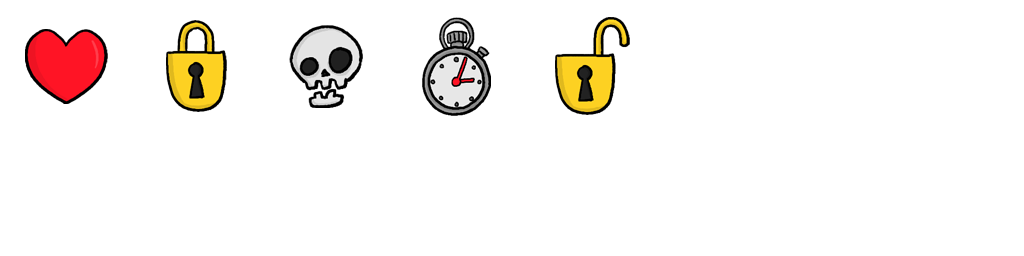
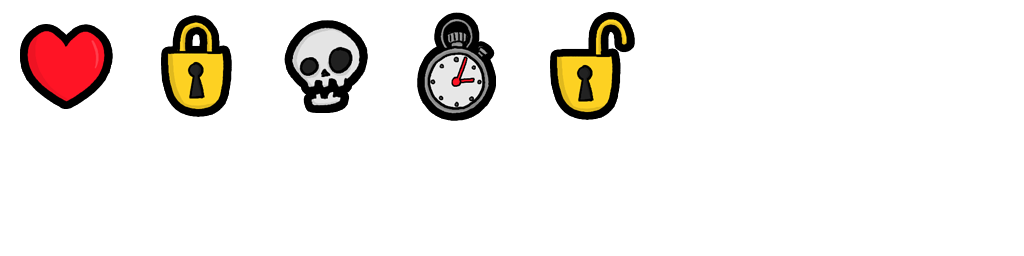
Modified UI assets and placement. Modified item assets and hitboxes.

diff --git a/core/src/com/totlc/levels/ALevel.java b/core/src/com/totlc/levels/ALevel.java
@@ -2,6 +2,7 @@ package com.totlc.levels;
 
 import com.badlogic.gdx.Input;
 import com.badlogic.gdx.assets.AssetManager;
+import com.badlogic.gdx.graphics.Texture;
 import com.badlogic.gdx.graphics.g2d.TextureAtlas;
 import com.badlogic.gdx.graphics.g2d.TextureRegion;
 import com.badlogic.gdx.math.Intersector;
@@ -82,6 +83,7 @@ public abstract class ALevel extends Stage {
                 setInfoString("DEFEAT ENEMIES");
                 break;
         }
+        objIcon.getTexture().setFilter(Texture.TextureFilter.Linear, Texture.TextureFilter.Linear);
         setMusicPlayer(new MusicPlayer());
     }
 
@@ -89,11 +91,11 @@ public abstract class ALevel extends Stage {
 
     public void endInit() {
         initWalls();
-        initUI();
 
         player.moveAbs(playerStartPosition.x, playerStartPosition.y);
         addActor(player);
         getPlayer().setZIndex(20);
+        initUI();
     }
 
     @Override
@@ -213,16 +215,16 @@ public abstract class ALevel extends Stage {
         int yOffset = 32;
         // Add health bar, inventory bar, and level information bar.
         LifeGauge hpBar = new LifeGauge(getAssetManager(), player, 0, TradersOfTheLastCarp.CONFIG_HEIGHT);
-        hpBar.setZIndex(10);
+
         Inventory inventory = new Inventory(getAssetManager(), player, 0, TradersOfTheLastCarp.CONFIG_HEIGHT);
-        inventory.setZIndex(10);
+
         Bar bar0 = new Bar(getAssetManager(), 0, TradersOfTheLastCarp.CONFIG_HEIGHT, (int)(hpBar.getWidth() + inventory.getWidth() + 32), 64);
-        bar0.setZIndex(10);
+
         LevelInfo info = new LevelInfo(getAssetManager(), this, TradersOfTheLastCarp.CONFIG_WIDTH, TradersOfTheLastCarp.CONFIG_HEIGHT);
-        info.setZIndex(10);
+
 
         bar0.moveBy(-xOffset, -(bar0.getHeight() + yOffset));
-        hpBar.moveBy(inventory.getWidth() - yOffset * 0.3f, -(hpBar.getHeight() + yOffset * 0.8f));
+        hpBar.moveBy(inventory.getWidth() - xOffset * 0.3f, -(hpBar.getHeight() + yOffset * 0.85f));
         inventory.moveBy(0, -(inventory.getHeight() + yOffset * 0.6f));
         info.moveBy(-(info.getWidth() - xOffset), -(info.getHeight() + yOffset));
 

diff --git a/core/src/com/totlc/Actors/UI/LevelInfo.java b/core/src/com/totlc/Actors/UI/LevelInfo.java
@@ -20,7 +20,7 @@ public class LevelInfo extends Actor {
 
     private BitmapFont font;
 
-    private int iconSize = 64;
+    private int iconSize = 48;
 
     // Level to display information for.
     private ALevel level;
@@ -36,6 +36,7 @@ public class LevelInfo extends Actor {
         bar = new NinePatch(assetManager.get(AssetList.UI_BAR.toString(), Texture.class), 16, 16, 8, 8);
         setObjective(level.getObjective());
         font = TradersOfTheLastCarp.systemFont0;
+        font.getRegion().getTexture().setFilter(Texture.TextureFilter.Linear, Texture.TextureFilter.Linear);
     }
 
     @Override
@@ -44,13 +45,13 @@ public class LevelInfo extends Actor {
         // Draw base texture.
         bar.draw(batch, getX(), getY(), getWidth(), getHeight());
         // Draw level strings.
-        font.getData().setScale(1.0f);
-        font.draw(batch, level.getNameString(), getX() + iconSize * 0.3f, getY() + getHeight() * 0.8f);
+        font.getData().setScale(1.2f);
+        font.draw(batch, level.getNameString(), getX() + iconSize * 0.36f + objPadding, getY() + getHeight() * 0.75f);
         font.getData().setScale(0.8f);
-        font.draw(batch, level.getInfoString() + " " + level.getObjectiveInfo(), getX() + iconSize * 0.3f + objPadding, getY() + getHeight() * 0.55f);
+        font.draw(batch, level.getInfoString() + " " + level.getObjectiveInfo(), getX() + iconSize * 0.42f + objPadding, getY() + getHeight() * 0.42f);
 
         // Draw Objective Icon.
-        batch.draw(level.getObjIcon(), getX() - objPadding * 0.6f, getY() - objPadding, iconSize, iconSize);
+        batch.draw(level.getObjIcon(), getX()+ iconSize * 0.2f - objPadding, getY() + iconSize * 0.2f - objPadding, iconSize, iconSize);
     }
 
     public ALevel getLevel() {

diff --git a/core/src/com/totlc/Actors/items/Health.java b/core/src/com/totlc/Actors/items/Health.java
@@ -22,11 +22,12 @@ public class Health extends APickup{
     public Health(AssetManager assetManager, int x, int y) {
         super(assetManager, new Rectangle(x, y, 64, 64));
         heart = assetManager.get(AssetList.ITEM_PACK.toString(), TextureAtlas.class).findRegion("1Heart");
+        heart.getTexture().setFilter(Texture.TextureFilter.Linear, Texture.TextureFilter.Linear);
     }
 
     @Override
     public void draw(Batch batch, float alpha) {
-        batch.draw(heart, getX(), getY(), heart.getRegionWidth() / 2, heart.getRegionHeight() / 2, heart.getRegionWidth(), heart.getRegionHeight(), scale, scale, 0);
+        batch.draw(heart, getX(), getY(), 0, 0, heart.getRegionWidth(), heart.getRegionHeight(), scale, scale, 0);
     }
 
     @Override

diff --git a/core/src/com/totlc/Actors/UI/Bar.java b/core/src/com/totlc/Actors/UI/Bar.java
@@ -20,7 +20,7 @@ public class Bar extends Actor {
         setY(y);
         setWidth(width);
         setHeight(height);
-        bar = new NinePatch(assetmanager.get(AssetList.UI_BAR.toString(), Texture.class), 16, 16, 8, 8);
+        bar = new NinePatch(assetmanager.get(AssetList.UI_BAR.toString(), Texture.class), 18, 18, 12, 12);
     }
 
     public void draw(Batch batch, float alpha){

diff --git a/core/src/com/totlc/TradersOfTheLastCarp.java b/core/src/com/totlc/TradersOfTheLastCarp.java
@@ -44,7 +44,7 @@ public class TradersOfTheLastCarp extends ApplicationAdapter {
 				new FileHandle(AssetList.LOVELO_IMAGE.toString()), false);
 
 		shapeRenderer = new ShapeRenderer();
-		shapeRenderer.setProjectionMatrix(camera.combined);
+//		shapeRenderer.setProjectionMatrix(camera.combined);
 		shapeRenderer.setColor(Color.RED);
 
 		// Spider
